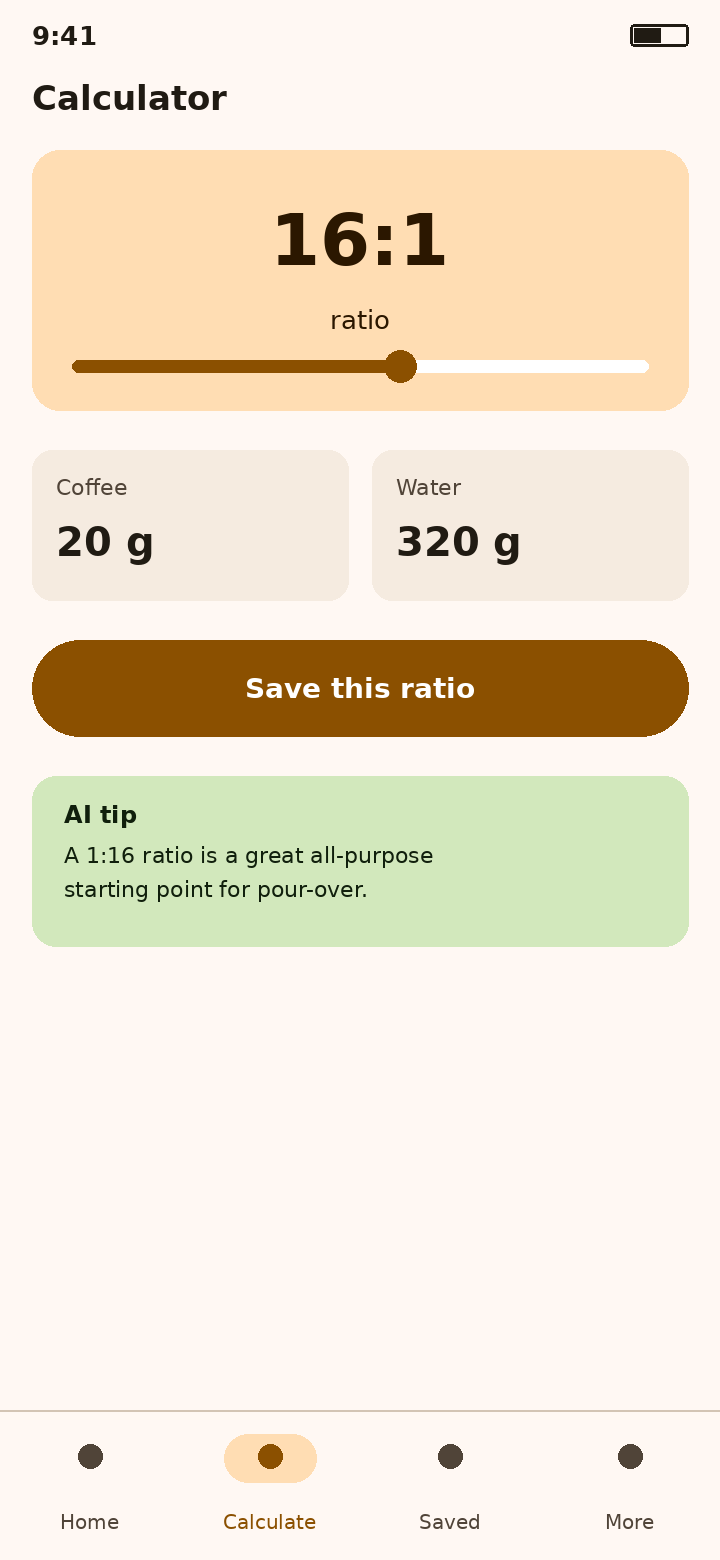
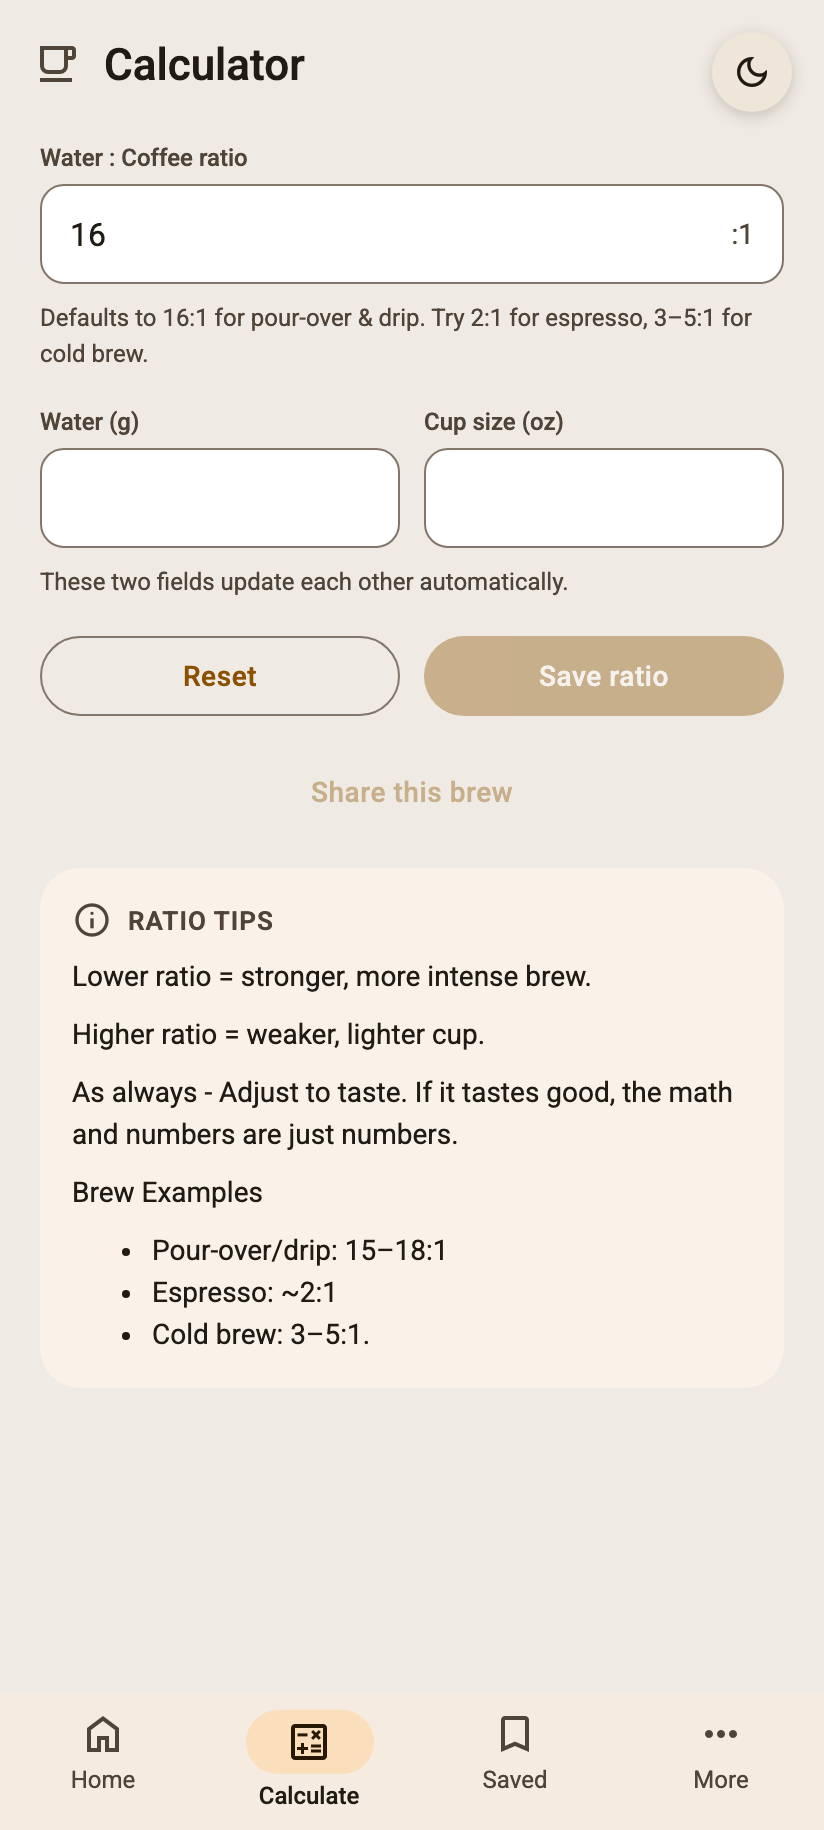
Update PWA install screenshots with full app screen set
Swaps the two placeholder install-prompt screenshots for the full set
of 9 app screens, sized to match the actual capture dimensions.

diff --git a/vite.config.ts b/vite.config.ts
@@ -83,17 +83,66 @@ export default defineConfig({
         screenshots: [
           {
             src: "screenshots/home.png",
-            sizes: "720x1560",
+            sizes: "824x1830",
             type: "image/png",
             form_factor: "narrow",
             label: "Home screen",
           },
           {
             src: "screenshots/calculator.png",
-            sizes: "720x1560",
+            sizes: "824x1830",
             type: "image/png",
             form_factor: "narrow",
             label: "Ratio calculator",
+          },
+          {
+            src: "screenshots/timer.png",
+            sizes: "824x1830",
+            type: "image/png",
+            form_factor: "narrow",
+            label: "Pour-over timer",
+          },
+          {
+            src: "screenshots/saved.png",
+            sizes: "824x1830",
+            type: "image/png",
+            form_factor: "narrow",
+            label: "Saved brews",
+          },
+          {
+            src: "screenshots/guide-detail.png",
+            sizes: "824x1830",
+            type: "image/png",
+            form_factor: "narrow",
+            label: "Brew guide detail",
+          },
+          {
+            src: "screenshots/v60-recipes.png",
+            sizes: "824x1830",
+            type: "image/png",
+            form_factor: "narrow",
+            label: "V60 recipes",
+          },
+          {
+            src: "screenshots/aeropress-recipes.png",
+            sizes: "824x1830",
+            type: "image/png",
+            form_factor: "narrow",
+            label: "AeroPress recipes",
+          },
+          {
+            src: "screenshots/more.png",
+            sizes: "824x1830",
+            type: "image/png",
+            form_factor: "narrow",
+            label: "More menu",
+          },
+          {
+            src: "screenshots/settings.png",
+            sizes: "824x1830",
+            type: "image/png",
+            form_factor: "narrow",
+            label: "Settings",
           },
         ],
       },
